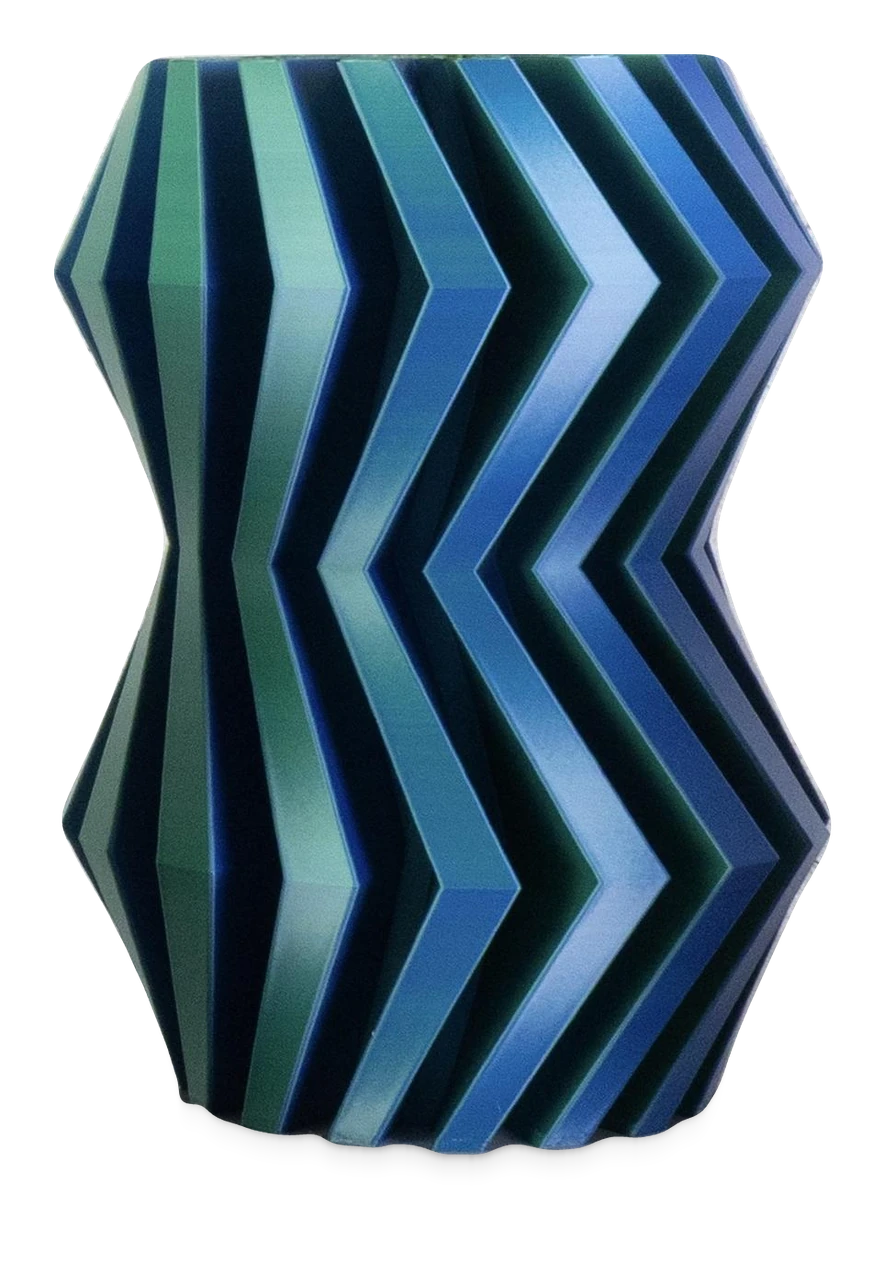
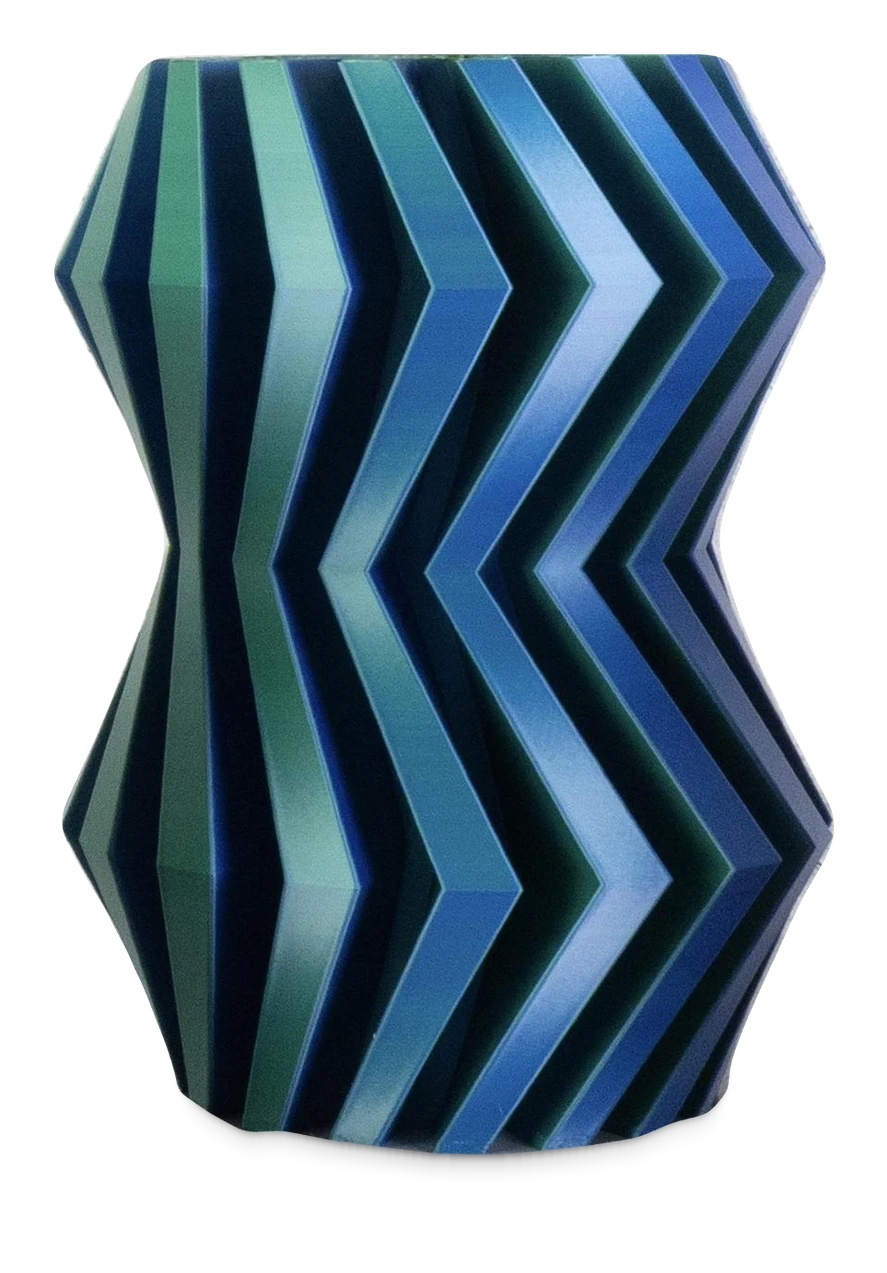
Zig base a tratti dritti, ombre a terra Zig/Torsione, video Torsione secondo

diff --git a/tutti-i-design.html b/tutti-i-design.html
@@ -133,7 +133,7 @@
 
         <a href="prodotto-zig.html" class="product-card reveal">
           <div class="card-img card-img--flat" style="display:flex; align-items:flex-end; justify-content:center; padding:12px 12px 0;">
-            <img src="images/zig-blu-scontornato.webp?v=5" alt="Zig" style="height:61.0%; width:auto; max-width:100%; object-fit:contain; object-position:center bottom; transform:translateY(calc(9.34% - 16px));">
+            <img src="images/zig-blu-scontornato.webp?v=6" alt="Zig" style="height:60.9%; width:auto; max-width:100%; object-fit:contain; object-position:center bottom; transform:translateY(calc(9.27% - 16px));">
           </div>
           <p class="product-card-title">Zig</p>
           <span class="pc-prezzo" data-prezzo="zig-s"></span>
@@ -143,7 +143,7 @@
 
         <a href="prodotto-torsione.html" class="product-card reveal reveal-delay-2">
           <div class="card-img card-img--flat" style="display:flex; align-items:flex-end; justify-content:center; padding:12px 12px 0;">
-            <img src="images/torsione-scontornato.webp?v=2" alt="Torsione" style="height:71.2%; width:auto; max-width:100%; object-fit:contain; object-position:center bottom; transform:translateY(calc(4.32% - 16px));">
+            <img src="images/torsione-scontornato.webp?v=3" alt="Torsione" style="height:72.6%; width:auto; max-width:100%; object-fit:contain; object-position:center bottom; transform:translateY(calc(6.14% - 16px));">
           </div>
           <p class="product-card-title">Torsione</p>
           <span class="pc-prezzo" data-prezzo="torsione"></span>

diff --git a/prodotto-torsione.html b/prodotto-torsione.html
@@ -592,9 +592,9 @@
      mostrata per prima quando quel colore e' selezionato (gia' previsto).
      ========================================================================= */
   var FOTO = [
-    { src:'images/torsione-scontornato.webp?v=2', alt:'Torsione — vista frontale' },
-    { src:'images/Torsione/web/torsione-foto.jpg', alt:'Torsione su un piano in legno, davanti a una parete chiara' },
-    { video:'images/Torsione/web/torsione-video.mp4', poster:'images/Torsione/web/torsione-video-poster.jpg', alt:'Video del vaso Torsione' }
+    { src:'images/torsione-scontornato.webp?v=3', alt:'Torsione — vista frontale' },
+    { video:'images/Torsione/web/torsione-video.mp4', poster:'images/Torsione/web/torsione-video-poster.jpg', alt:'Video del vaso Torsione' },
+    { src:'images/Torsione/web/torsione-foto.jpg', alt:'Torsione su un piano in legno, davanti a una parete chiara' }
   ];
   </script>
 
